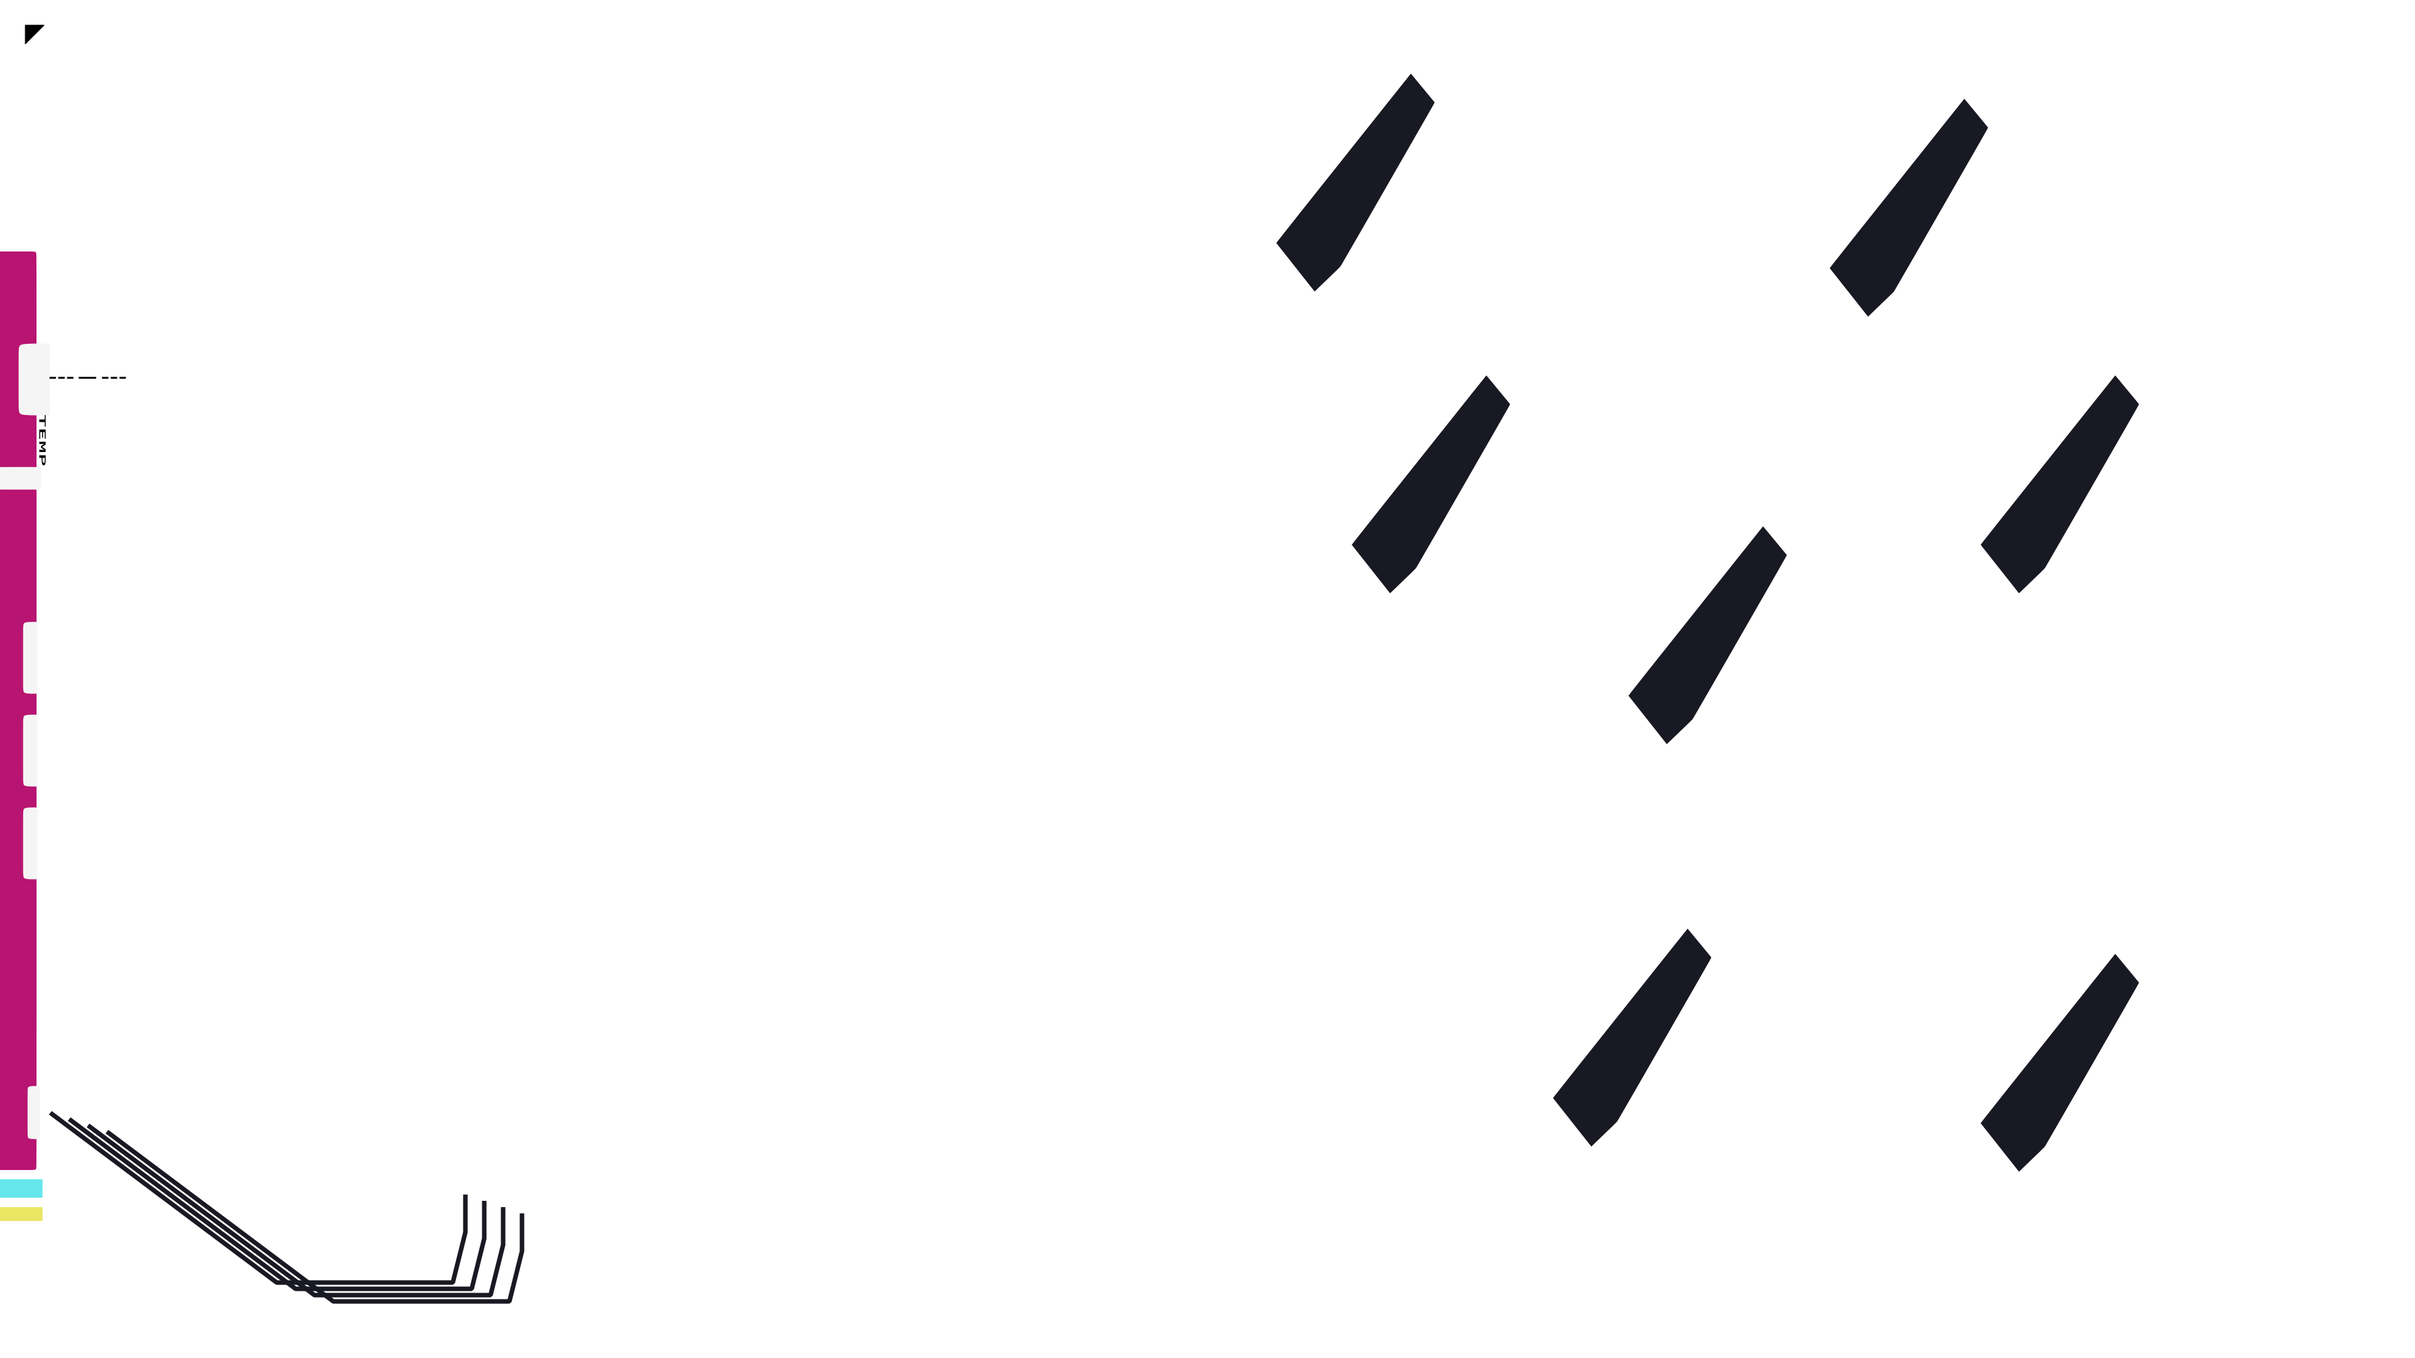
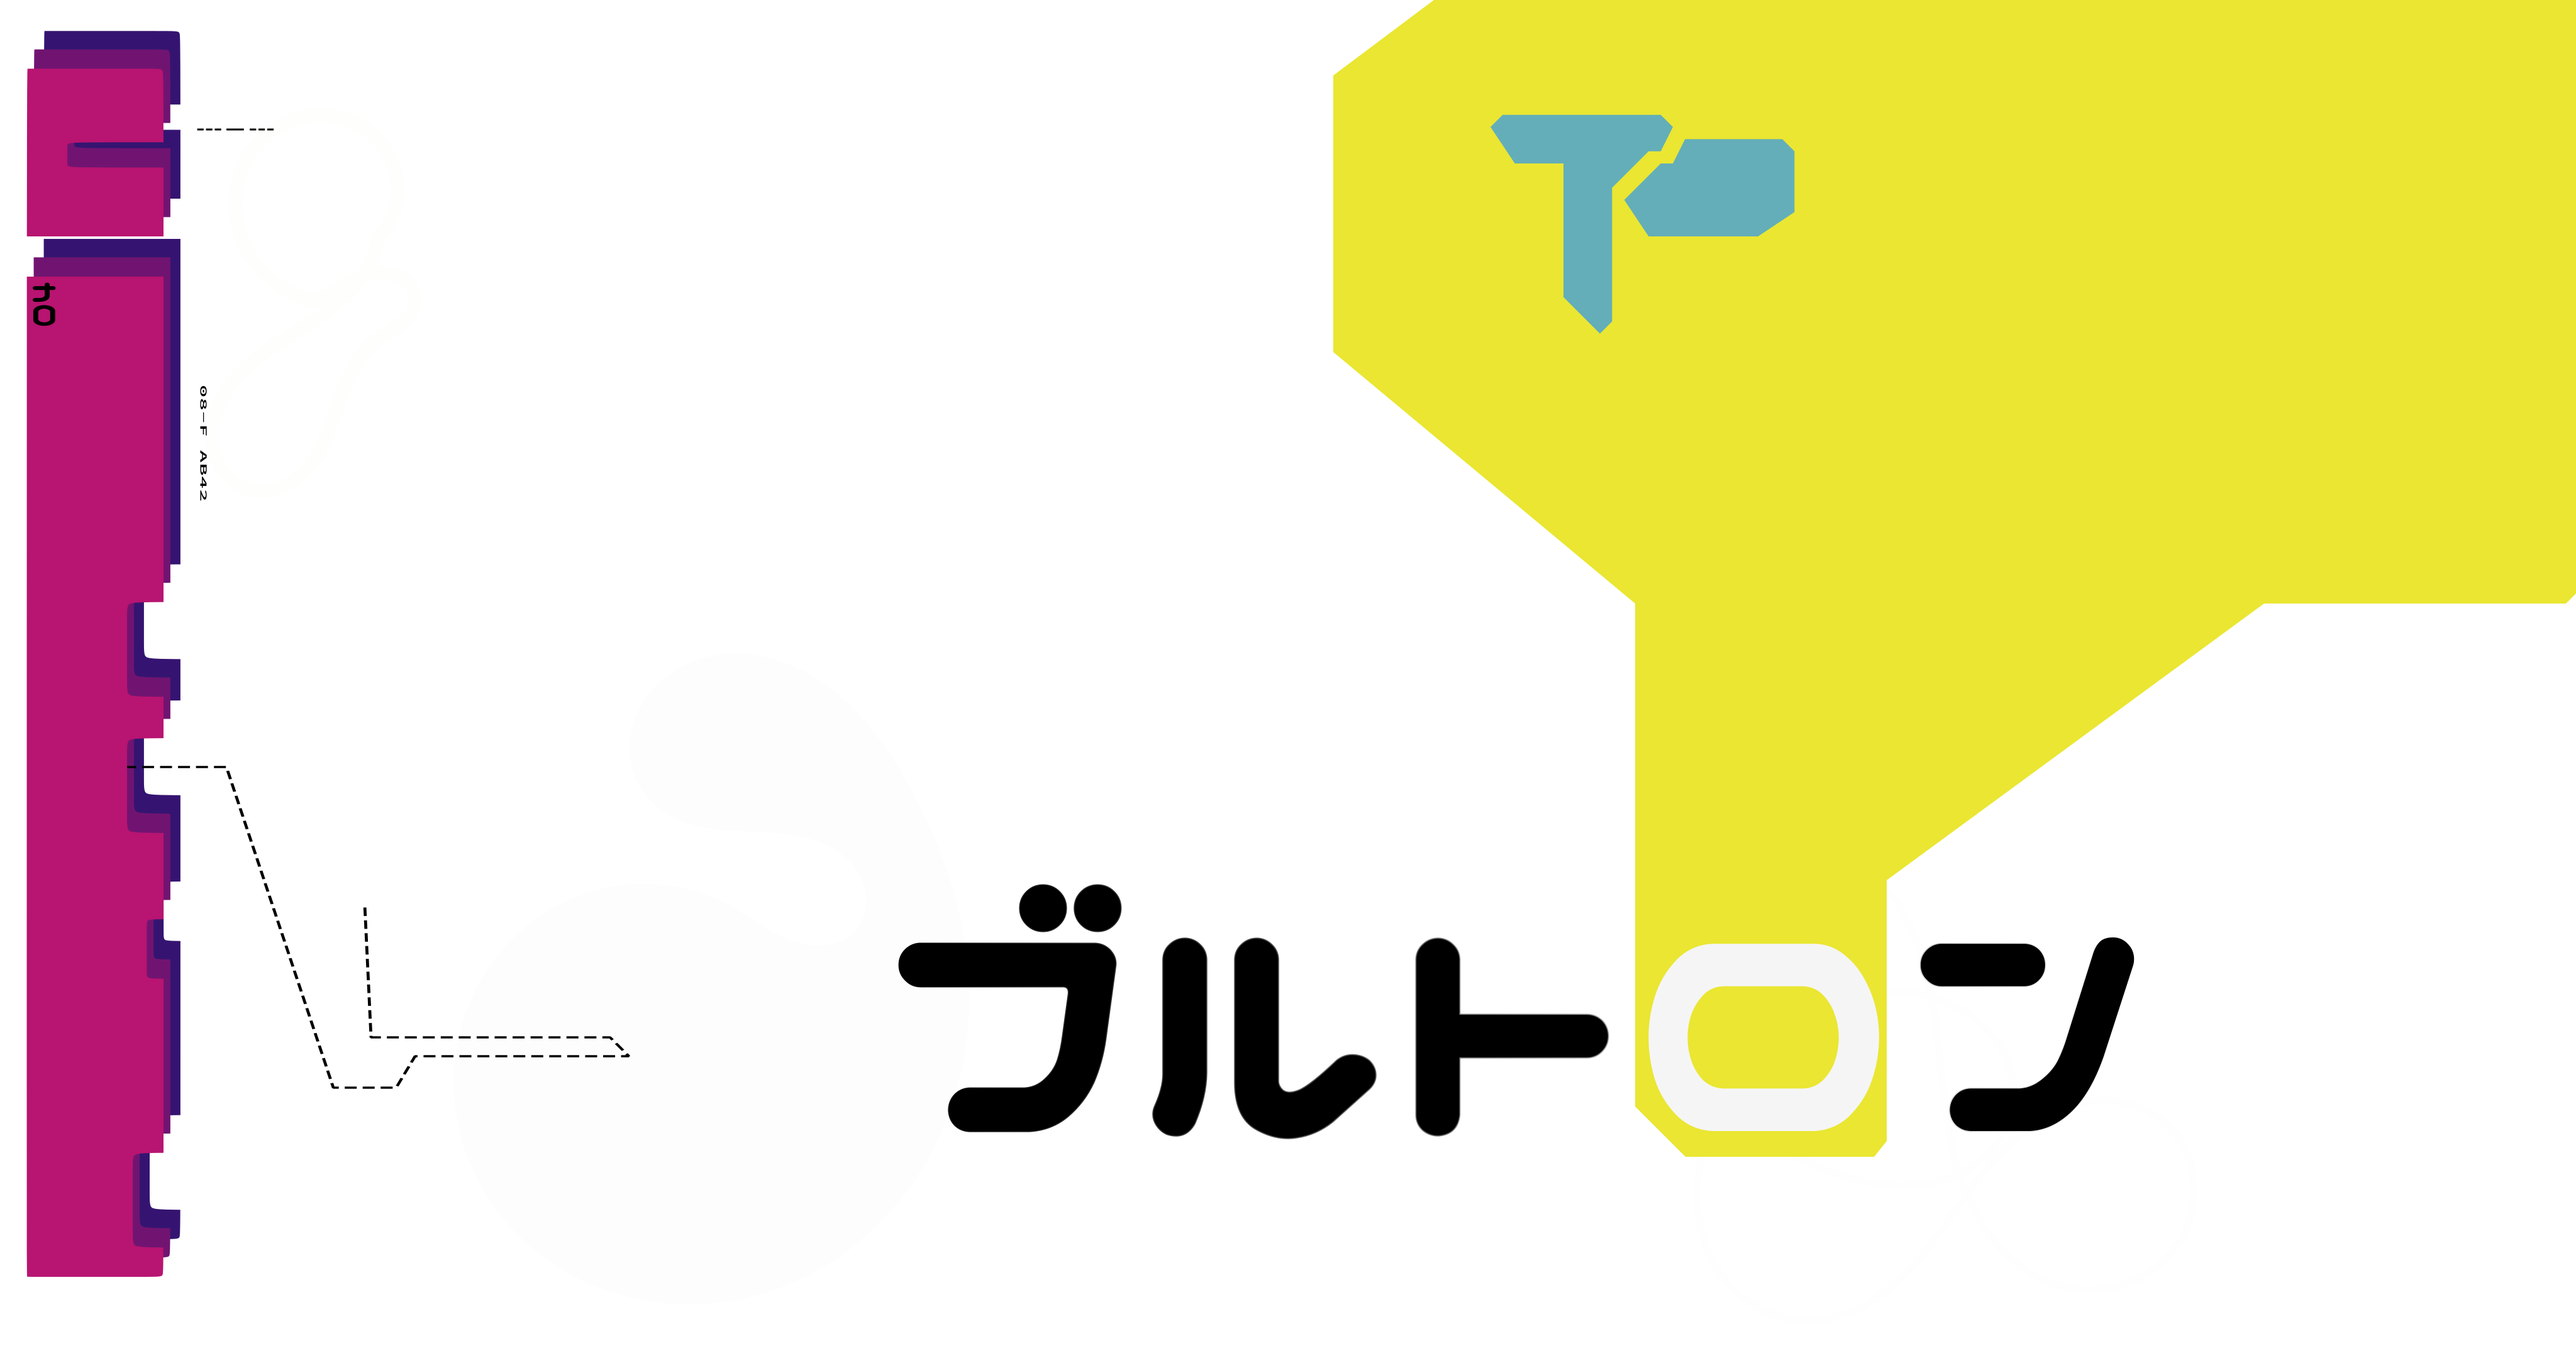
Added some extreme backgrounds.

diff --git a/css/power.css b/css/power.css
@@ -4,7 +4,10 @@
 
 html, body {
   height: 100%;
-  background-color: rgba(0,0,0,1);
+  background-color: rgba(245, 245, 245, 1);
+  background: url(../test.png);
+  background-size: contain;
+  background-repeat: no-repeat;
 }
 body{
   /*
@@ -24,19 +27,15 @@ a, a:hover {
 }
 
 .frame {
-  height: 98%; width: 100%;
+  height: 100%; width: 100%;
   line-height: 1.5em;
-  margin-top: 1rem; padding-left: 2rem;
+  padding-left: 2rem;
   z-index: 2;
-  background-color: rgba(245, 245, 245, 1);
   position: absolute;
 }
 .inner_frame {
   height: 100%; width: 85%;
   margin-left: 10%;
-  background: url(../test.png);
-  background-size: contain;
-  background-repeat: no-repeat;
 }
 .foreground_object1 { /* Border and background*/
   position: absolute;
@@ -80,8 +79,7 @@ a, a:hover {
 }
 /* END OF TAG */
 .frame_head {
-  text-align: center;
-  border-radius: 55px 45px 0px 0px;
+  text-align: left;
   width: 100%; height: 20%;
   z-index: 2;
 }
@@ -90,17 +88,6 @@ a, a:hover {
   text-align: center;
   top: 10px;
 }
-
-#a1, #a2, #a3, #b1 {
-  text-align: left;
-  padding-top: 15%;
-  z-index: 1000;
-  position: absolute;
-}
-#a1 {left: 20%; font-size: 40vw;}
-#b1 {left: 55%; font-size: 6vw; color: rgba(42,230,234,1);}
-#a2 {left: 65%; font-size: 3vw;}
-#a3 {left: 75%; font-size: 2vw;}
 
 /* Display {sizes} */
 /* Thx css-tricks yeet */

diff --git a/index.html b/index.html
@@ -34,27 +34,13 @@
           </div>
         </div>
         <div class="frame_head">
-          <div class="row">
-            <div class="col-2">
-              <!--h6 class="lod_special" style="
-              color: rgba(240, 240, 245, 1);
-              background-color: #b81471;
-              ">L0D重工</h6-->
-            </div>
-
-            <div class="col-xl-8">
-              <h4 class="frame_head_tippytop"> jasonnova <br> @ protonmail.com <br>
-                <a href="https://twitter.com/jsn404">twitter &
-                <a href="https://github.com/jeibloo">github</a>
-              </h4>
-            </div>
-          </div>
+          <h4>jasonnova <br> @ protonmail.com <br>
+            <a href="https://twitter.com/jsn404">twitter &
+            <a href="https://github.com/jeibloo">github</a>
+          </h4>
         </div>
 
-        <h1 id="a1">ブ</h1>
-        <h1 id="b1">ブ</h1>
-        <h1 id="a2">ブ</h1>
-        <h1 id="a3">ブ</h1>
+        <!--h1 id="a1">ブ</h1-->
       </div>
 
     </div> <!--End of frame-->
